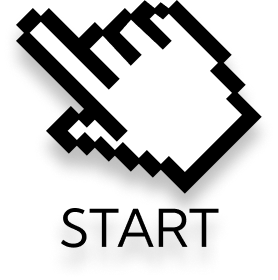
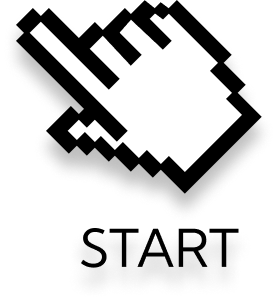
시작화면 아이콘 이미지 변경 및 브랜드 컬러 추가

diff --git a/src/index.css b/src/index.css
@@ -35,6 +35,10 @@
   --gray5: #E5E5EA;
   --gray6: #F2F2F7;
 
+  --yellow: #FEF785;
+  --blue: #6182B7;
+  --navy: #082567;
+
   @media (max-width: 1024px) {
     font-size: 16px;
   }
